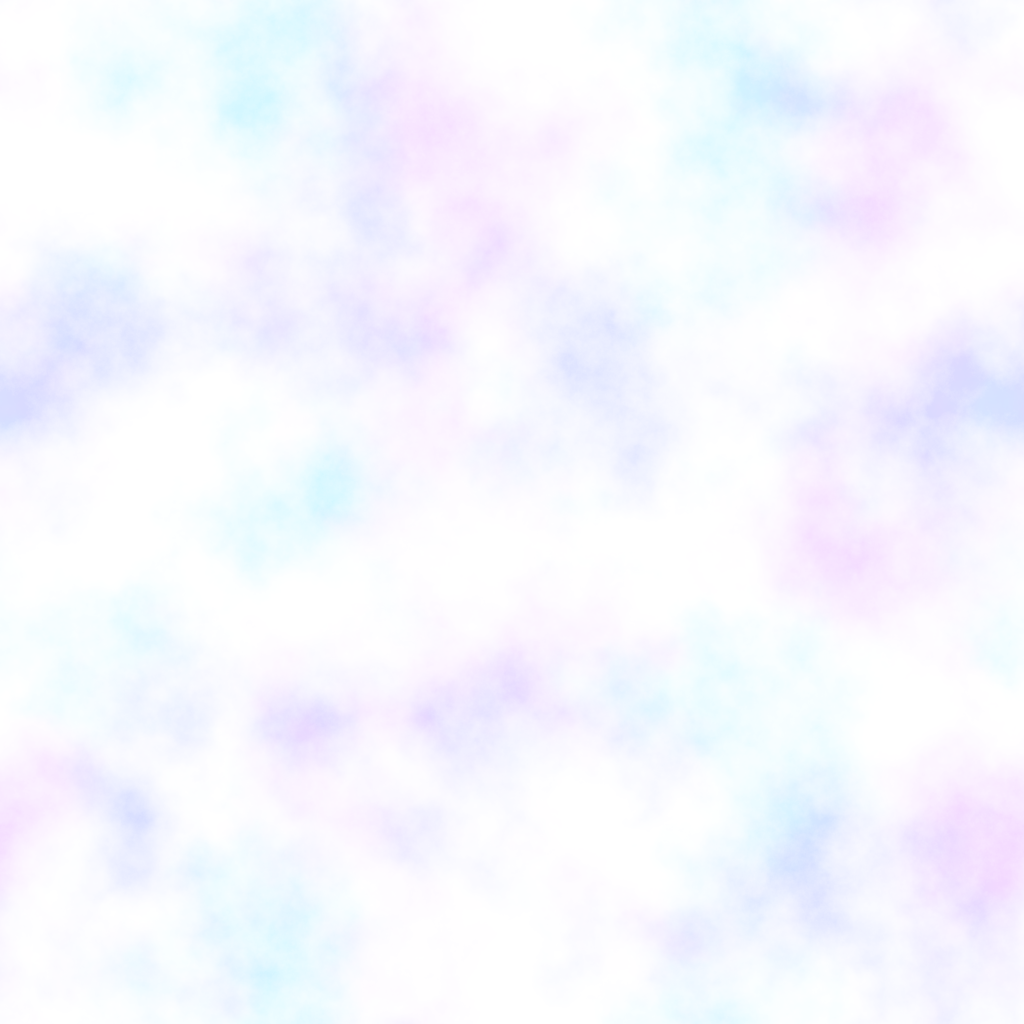
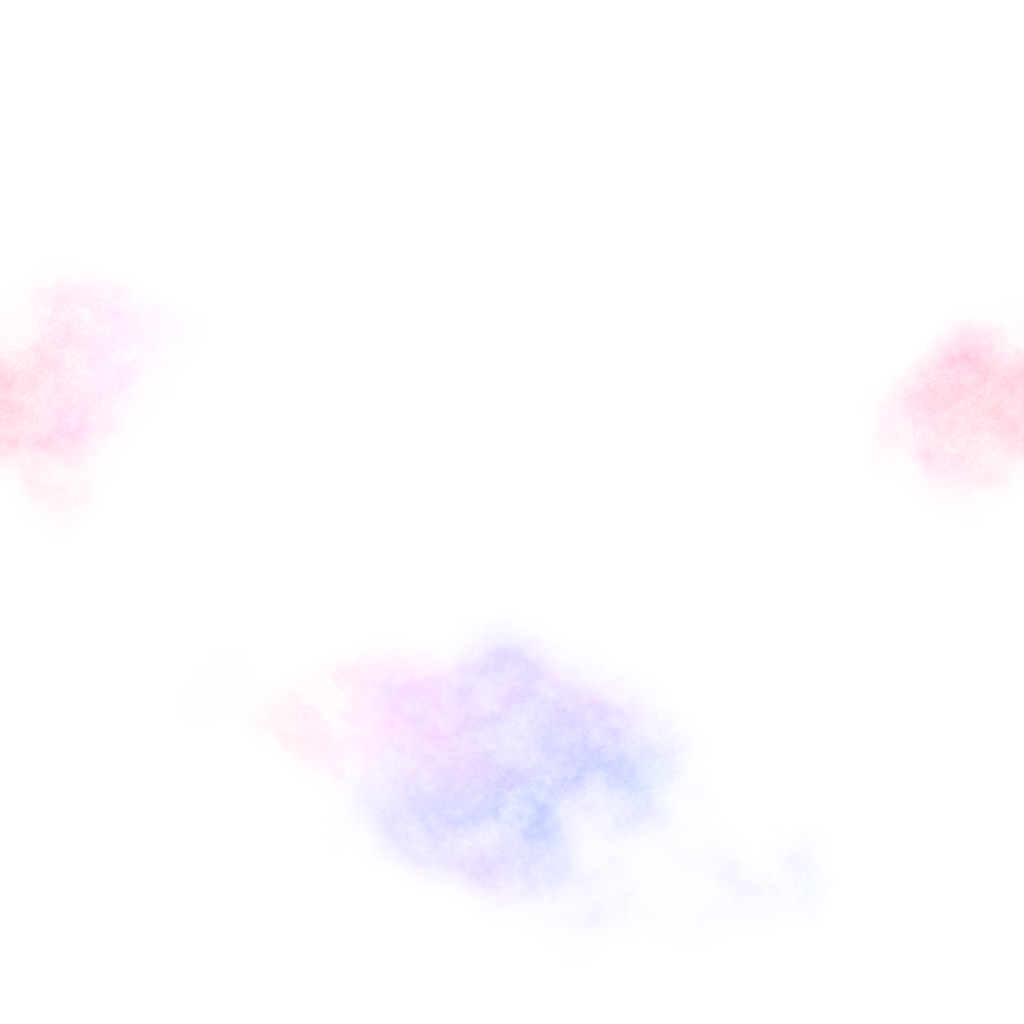
Realistic space: black sky, star field, lighting from the star, foreground bokeh
- Black background, nebulae as sparse patches with filaments and dark lanes
- Colored star field with spiked bright stars and tiny galaxies
- Star halo only near the star
- Dust and player lit from the star; light direction follows the orbit
- Soft out-of-focus dust layer in front of the camera
- Version 0.11

Claude-Session: https://claude.ai/code/session_019JT9H9Z6HgHqYWpXn3DgRx

diff --git a/tools/gen_space_bg.py b/tools/gen_space_bg.py
@@ -1,9 +1,12 @@
-"""Генерирует бесшовные текстуры фона: туманности и два слоя звёзд.
+"""Генерирует бесшовные текстуры космоса.
 
-assets/space/nebula.png     — мягкие цветные облака (низкая прозрачность)
-assets/space/stars_far.png  — много мелких тусклых звёзд
-assets/space/stars_near.png — меньше звёзд, крупнее и ярче
-Бесшовность даёт шум, отфильтрованный в частотной области (он периодичен сам по себе).
+assets/space/nebula.png     — туманности отдельными пятнами: волокна, тёмные прожилки, яркие края;
+                              большая часть неба остаётся чёрной
+assets/space/stars_far.png  — тысячи слабых звёзд разных цветов и крошечные далёкие галактики
+assets/space/stars_near.png — меньше звёзд, ярче; у самых ярких лучи, как на снимках Hubble
+assets/space/bokeh.png      — размытые пылинки переднего плана (почти прозрачные)
+
+Бесшовность даёт шум, отфильтрованный в частотной области, и рисование «по модулю» размера.
 Запуск: python3 tools/gen_space_bg.py
 """
 from pathlib import Path
@@ -14,9 +17,20 @@ from PIL import Image
 OUT = Path(__file__).resolve().parent.parent / "assets" / "space"
 SIZE = 1024
 
+# Цвета звёзд по температуре: от голубых до красных. Веса — сколько таких на небе
+# (глазом и камерой видно больше белых и жёлтых, чем голубых и красных).
+STAR_COLORS = [
+    ((0.62, 0.74, 1.0), 0.12),  # горячие голубые
+    ((0.82, 0.88, 1.0), 0.28),
+    ((1.0, 0.98, 0.95), 0.30),  # белые
+    ((1.0, 0.9, 0.72), 0.18),   # жёлтые
+    ((1.0, 0.74, 0.5), 0.09),   # оранжевые
+    ((1.0, 0.55, 0.42), 0.03),  # красные карлики и гиганты
+]
+
 
 def tileable_noise(rng, size, slope, low_cut=1.0):
-    """Шум со спектром 1/f^slope: чем больше slope, тем крупнее и мягче облака."""
+    """Шум со спектром 1/f^slope: чем больше slope, тем крупнее и мягче детали."""
     white = rng.standard_normal((size, size))
     f = np.fft.fft2(white)
     fx = np.fft.fftfreq(size)[:, None] * size
@@ -30,52 +44,145 @@ def tileable_noise(rng, size, slope, low_cut=1.0):
     return n / n.max()
 
 
+def to_image(rgb, a):
+    img = np.dstack([np.clip(rgb, 0, 1), np.clip(a, 0, 1)])
+    return Image.fromarray((img * 255).astype(np.uint8), "RGBA")
+
+
 def nebula(rng):
-    # Три поля разных цветов: синее, фиолетовое и бирюзовое, плюс тёмные прожилки пыли.
-    colors = [np.array([0.20, 0.30, 0.85]), np.array([0.55, 0.22, 0.70]), np.array([0.15, 0.60, 0.70])]
-    rgb = np.zeros((SIZE, SIZE, 3))
-    alpha = np.zeros((SIZE, SIZE))
-    for col in colors:
-        n = tileable_noise(rng, SIZE, 1.9, low_cut=1.5)
-        detail = tileable_noise(rng, SIZE, 1.3, low_cut=3.0)
-        m = np.clip((n - 0.5) * 2.4, 0.0, 1.0) ** 1.6 * (0.6 + 0.6 * detail)
-        rgb += m[..., None] * col
-        alpha += m
-    lanes = tileable_noise(rng, SIZE, 1.6, low_cut=2.0)
-    alpha *= np.clip(1.4 - lanes * 1.2, 0.2, 1.0)
-    alpha = np.clip(alpha, 0.0, 1.0)
+    # Маска: облака занимают ~15% неба, остальное чёрное.
+    big = tileable_noise(rng, SIZE, 2.2, low_cut=1.0)
+    mask = np.clip((big - 0.62) / 0.2, 0.0, 1.0) ** 1.5
+    # Волокнистая структура: гребневый шум даёт нити.
+    fil = tileable_noise(rng, SIZE, 1.5, low_cut=3.0)
+    ridges = 1.0 - np.abs(fil - 0.5) * 2.0
+    fine = tileable_noise(rng, SIZE, 1.1, low_cut=6.0)
+    density = mask * (0.35 + 0.65 * ridges ** 3) * (0.7 + 0.6 * fine)
+    # Тёмные пылевые прожилки поверх свечения.
+    lanes = tileable_noise(rng, SIZE, 1.7, low_cut=2.0)
+    density *= np.clip((lanes - 0.25) * 2.5, 0.15, 1.0)
+    # Цвет: ионизированный водород (розово-красный), кислород (бирюза) и отражённый свет (синий).
+    h_alpha = np.array([0.95, 0.35, 0.45])
+    oxygen = np.array([0.3, 0.75, 0.8])
+    reflect = np.array([0.35, 0.5, 1.0])
+    mix1 = tileable_noise(rng, SIZE, 2.0, low_cut=1.0)[..., None]
+    mix2 = tileable_noise(rng, SIZE, 2.0, low_cut=1.0)[..., None]
+    rgb = h_alpha * mix1 + oxygen * (1 - mix1) * mix2 + reflect * (1 - mix1) * (1 - mix2)
     rgb = rgb / np.maximum(rgb.max(axis=2, keepdims=True), 1e-4)
-    a = alpha * 0.22  # туманности лёгкие, не мешают видеть пыль
-    img = np.dstack([rgb, a])
-    return Image.fromarray((np.clip(img, 0, 1) * 255).astype(np.uint8), "RGBA")
+    # Яркие края облаков: где плотность быстро растёт.
+    gy, gx = np.gradient(density)
+    edge = np.clip(np.sqrt(gx * gx + gy * gy) * 40.0, 0.0, 1.0)
+    a = density * 0.32 + edge * mask * 0.12
+    return to_image(rgb, a)
 
 
-def stars(rng, count, r_range, a_range):
+def splat(img, x, y, r, color, a, spikes=0.0):
+    """Звезда: гауссово ядро с ореолом, по желанию с четырьмя лучами. Рисуется по модулю размера."""
+    half = int(max(4, r * 6, spikes))
+    yy, xx = np.mgrid[-half:half + 1, -half:half + 1]
+    ix, iy = int(x), int(y)
+    dx, dy = xx - (x - ix), yy - (y - iy)
+    d2 = dx * dx + dy * dy
+    spot = np.exp(-d2 / (2 * r * r)) + 0.08 * np.exp(-d2 / (2 * (r * 3.5) ** 2))
+    if spikes > 0:
+        # Лучи дифракции, как у телескопа: тонкие кресты, быстро гаснущие.
+        thin = 0.45
+        cross = np.exp(-dy * dy / (2 * thin * thin)) * np.exp(-np.abs(dx) / (spikes * 0.35))
+        cross += np.exp(-dx * dx / (2 * thin * thin)) * np.exp(-np.abs(dy) / (spikes * 0.35))
+        spot = spot + cross * 0.5
+    spot = np.clip(spot * a, 0, 1)
+    ys = (iy + yy) % SIZE
+    xs = (ix + xx) % SIZE
+    old_a = img[ys, xs, 3]
+    new_a = 1 - (1 - old_a) * (1 - spot)
+    w = spot / np.maximum(new_a, 1e-5)
+    for c in range(3):
+        img[ys, xs, c] = img[ys, xs, c] * (1 - w) + color[c] * w
+    img[ys, xs, 3] = new_a
+
+
+def galaxy(img, rng, x, y):
+    """Крошечная далёкая галактика: эллипс с ядром, у части — намёк на спиральные рукава."""
+    size = rng.uniform(2.5, 6.0)
+    angle = rng.uniform(0, np.pi)
+    flat = rng.uniform(0.3, 1.0)
+    color = np.array(rng.choice([[1.0, 0.85, 0.65], [0.85, 0.9, 1.0], [1.0, 0.75, 0.6]]))
+    half = int(size * 3)
+    yy, xx = np.mgrid[-half:half + 1, -half:half + 1].astype(float)
+    c, s = np.cos(angle), np.sin(angle)
+    u = (xx * c + yy * s) / size
+    v = (-xx * s + yy * c) / (size * flat)
+    r = np.sqrt(u * u + v * v)
+    disk = np.exp(-r * 2.2)
+    if rng.random() < 0.5:
+        theta = np.arctan2(v, u)
+        disk *= 0.6 + 0.4 * np.cos(2 * theta - r * 5.0)
+    core = np.exp(-r * r * 12.0)
+    spot = np.clip((disk * 0.55 + core * 0.8) * rng.uniform(0.6, 1.0), 0, 1)
+    ys = (int(y) + yy.astype(int)) % SIZE
+    xs = (int(x) + xx.astype(int)) % SIZE
+    old_a = img[ys, xs, 3]
+    new_a = 1 - (1 - old_a) * (1 - spot)
+    w = spot / np.maximum(new_a, 1e-5)
+    for ch in range(3):
+        img[ys, xs, ch] = img[ys, xs, ch] * (1 - w) + color[ch] * w
+    img[ys, xs, 3] = new_a
+
+
+def pick_color(rng):
+    colors = [c for c, _ in STAR_COLORS]
+    weights = np.array([w for _, w in STAR_COLORS])
+    return colors[rng.choice(len(colors), p=weights / weights.sum())]
+
+
+def stars_far(rng):
     img = np.zeros((SIZE, SIZE, 4))
-    yy, xx = np.mgrid[-4:5, -4:5]
-    for _ in range(count):
+    # Яркость по степенному закону: слабых звёзд намного больше, чем ярких.
+    for _ in range(2600):
+        a = min(1.0, 0.05 + 0.6 * rng.pareto(2.2) * 0.25)
+        splat(img, *rng.uniform(0, SIZE, 2), rng.uniform(0.45, 0.7), pick_color(rng), a)
+    for _ in range(28):
+        galaxy(img, rng, *rng.uniform(0, SIZE, 2))
+    return to_image(img[..., :3], img[..., 3])
+
+
+def stars_near(rng):
+    img = np.zeros((SIZE, SIZE, 4))
+    for _ in range(220):
+        a = min(1.0, 0.2 + rng.pareto(1.8) * 0.25)
+        splat(img, *rng.uniform(0, SIZE, 2), rng.uniform(0.6, 0.95), pick_color(rng), a)
+    for _ in range(7):
+        splat(img, *rng.uniform(0, SIZE, 2), rng.uniform(0.9, 1.3), pick_color(rng), 1.0, spikes=rng.uniform(10, 22))
+    return to_image(img[..., :3], img[..., 3])
+
+
+def bokeh(rng):
+    """Размытые пылинки у самой камеры: мягкие пятна с чуть более ярким краем."""
+    img = np.zeros((SIZE, SIZE, 4))
+    for _ in range(9):
         x, y = rng.uniform(0, SIZE, 2)
-        r = rng.uniform(*r_range)
-        a = rng.uniform(*a_range)
-        tint = rng.choice([[0.75, 0.85, 1.0], [0.9, 0.93, 1.0], [0.85, 0.9, 1.0], [1.0, 0.95, 0.9]])  # холодные, чтобы не путать с пылью
-        ix, iy = int(x), int(y)
-        fx, fy = x - ix, y - iy
-        d = np.sqrt((xx - fx) ** 2 + (yy - fy) ** 2)
-        spot = np.exp(-(d / r) ** 2 * 2.0) * a
-        ys = (iy + yy) % SIZE
-        xs = (ix + xx) % SIZE
-        for c in range(3):
-            img[ys, xs, c] = np.maximum(img[ys, xs, c], tint[c])
-        img[ys, xs, 3] = np.maximum(img[ys, xs, 3], spot)
-    return Image.fromarray((np.clip(img, 0, 1) * 255).astype(np.uint8), "RGBA")
+        r = rng.uniform(14, 40)
+        half = int(r * 1.3)
+        yy, xx = np.mgrid[-half:half + 1, -half:half + 1]
+        d = np.sqrt((xx - (x - int(x))) ** 2 + (yy - (y - int(y))) ** 2) / r
+        disc = np.clip((1.0 - d) * 3.0, 0, 1) ** 2 * (0.6 + 0.4 * np.clip(d, 0, 1) ** 3)
+        a = disc * rng.uniform(0.03, 0.07)
+        ys = (int(y) + yy) % SIZE
+        xs = (int(x) + xx) % SIZE
+        img[ys, xs, 0] = 1.0
+        img[ys, xs, 1] = 0.9
+        img[ys, xs, 2] = 0.78
+        img[ys, xs, 3] = np.maximum(img[ys, xs, 3], a)
+    return to_image(img[..., :3], img[..., 3])
 
 
 def main():
     rng = np.random.default_rng(11)
     OUT.mkdir(parents=True, exist_ok=True)
     nebula(rng).save(OUT / "nebula.png")
-    stars(rng, 900, (0.45, 0.8), (0.06, 0.22)).save(OUT / "stars_far.png")
-    stars(rng, 140, (0.7, 1.3), (0.2, 0.5)).save(OUT / "stars_near.png")
+    stars_far(rng).save(OUT / "stars_far.png")
+    stars_near(rng).save(OUT / "stars_near.png")
+    bokeh(rng).save(OUT / "bokeh.png")
     print("Фон сохранён в", OUT)
 
 
